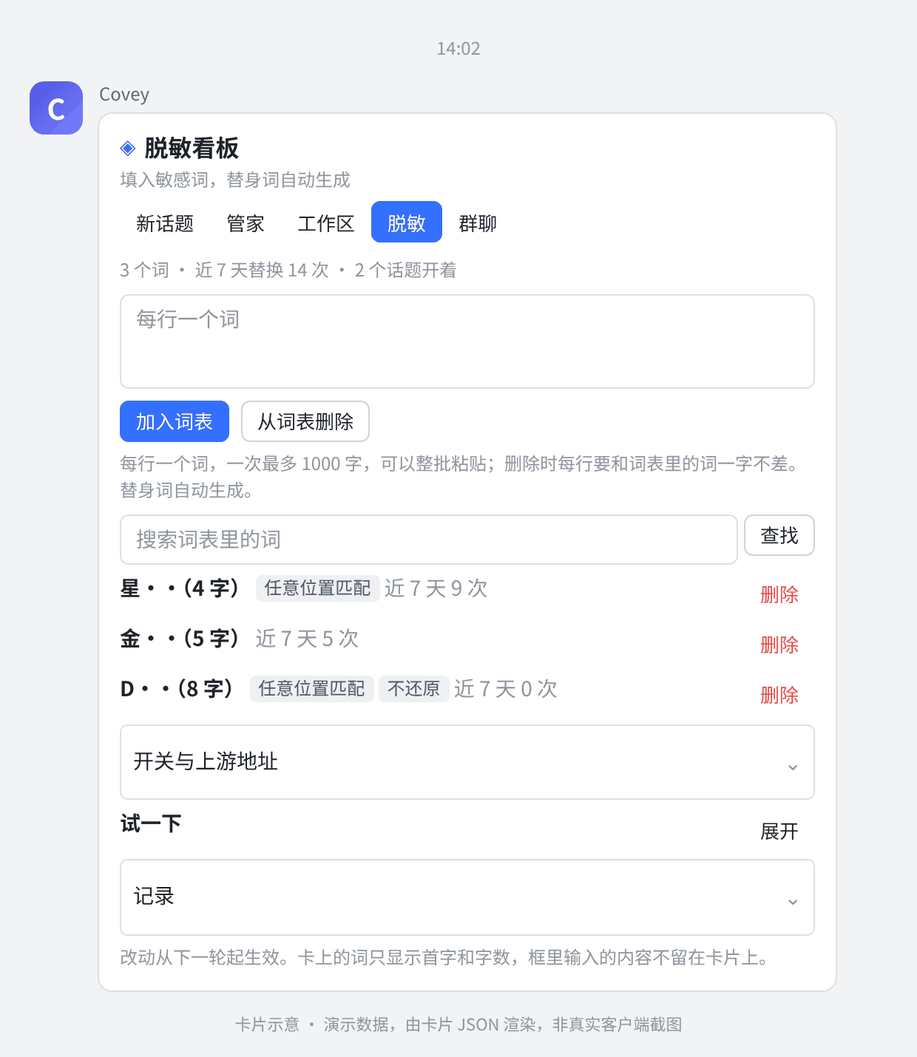
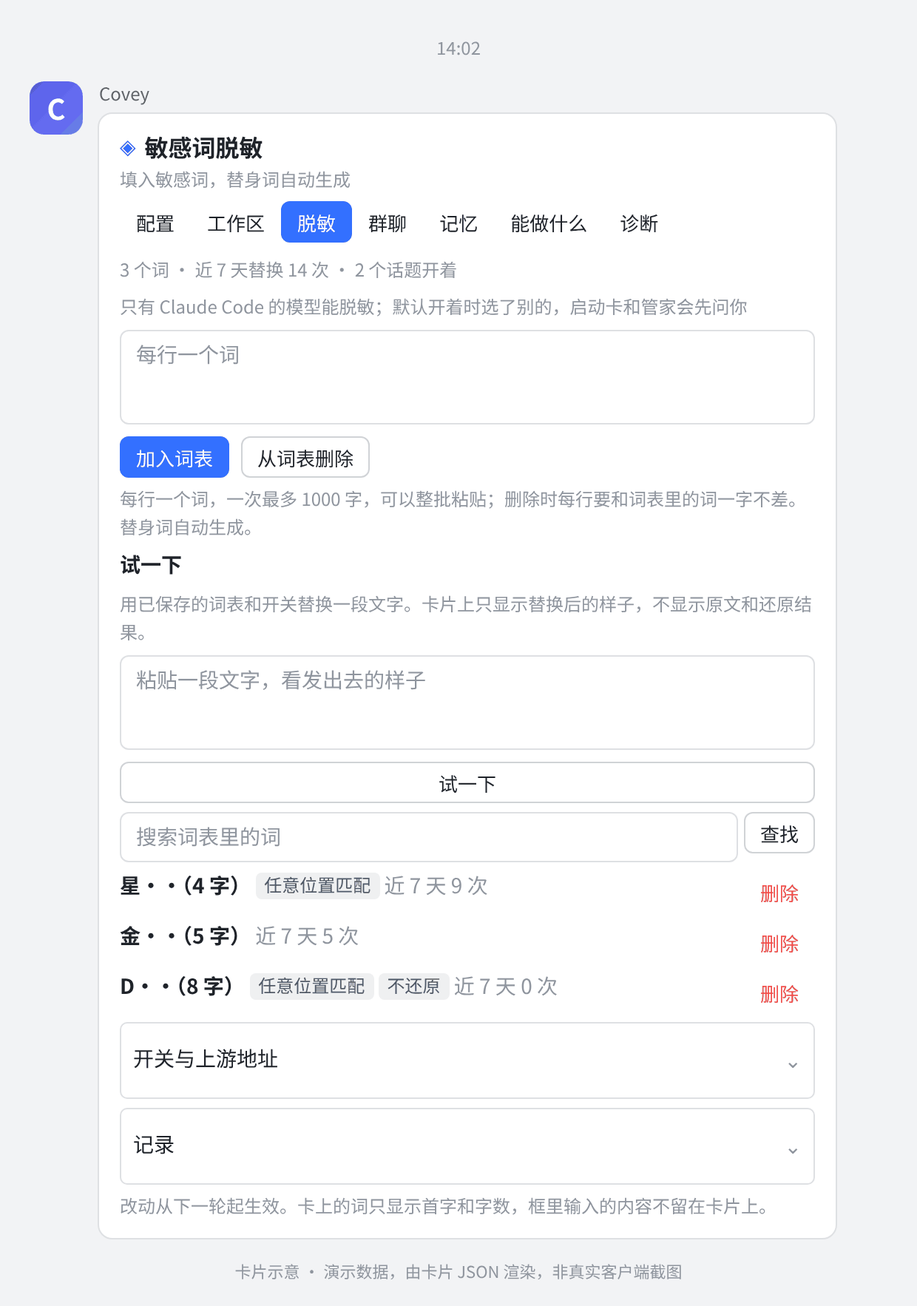
Card sketches: nine, with the question card, a stopped relay, the switch card and the board; the task card's head says 在做, the answer card shows 改动 and 独立复核, the settings card today's tabs (T646)

diff --git a/docs/demo/index.html b/docs/demo/index.html
@@ -58,7 +58,7 @@ cursor:pointer;color:#1f2329}
 .page{width:auto;max-width:620px}
 .next{margin:2px 0 0 20px;border-color:#4b52e0;color:#4b52e0}
 #ask-open .btn.pick{cursor:pointer;box-shadow:0 0 0 2px #c9cdfa}#ask-open .btn.pick:hover{filter:brightness(.95)}
-</style><div class="demo"><h1>Covey 演示</h1><div class="banner">演示数据：这一页由 Covey 的卡片 JSON 和一组演示数据画成，不连飞书、不用账号；按钮只在这一页里切换，卡片的样子以飞书里为准。</div><nav class="tabs"><button class="tab on" data-step="1">1 · 派到话题</button><button class="tab" data-step="2">2 · 回答一道题</button><button class="tab" data-step="3">3 · 看答案和产物</button></nav><section class="stage on" id="step-1"><p class="what">你在私聊里说一句话，管家给它开一个话题 T7，话题串挂在这句话下面；点进话题是这一轮的任务卡，实时写着在做什么。</p><div class="page"><div class="user">给 demo-app 加个登录页，邮箱加密码就行</div><div class="under"><span class="react"><b>Get</b> Covey</span></div><div class="under"><span class="thread">话题　T7 给 demo-app 加登录页 · 4 条回复 ›</span></div><div class="time">话题 T7 · 14:02</div><div class="msg"><div class="av">C</div><div><div class="who">Covey</div><div class="card"><div class="chead" style="padding:10px 14px 0px 14px"><div class="row" style="gap:6px;align-items:center"><i class="ic" style="color:#245bdb">◆</i><span class="t">T7 · #12 · 给 demo-app 加登录页</span></div></div><div class="cbody" style="gap:8px;padding:6px 14px 12px 14px"><div class="md" style="font-size:12px"><div class="h2"><span style="color:#245bdb">●</span> <span style="color:#245bdb"><b>在做</b></span></div></div><div class="md" style="font-size:14px"><p>阶段：写登录页<br><span style="color:#8f959e">现在：编辑 src/pages/Login.tsx</span></p></div><div class="row" style="gap:8px;align-items:flex-start;"><div class="col" style="flex:1 1 0;min-width:0;gap:2px;justify-content:flex-start;padding:6px 10px 6px 10px;background:#f5f6f7"><div class="row" style="gap:8px;align-items:flex-start;"><div class="col" style="flex:0 0 auto;min-width:0;gap:4px;justify-content:flex-start;"><div class="md" style="font-size:12px"><p><span style="color:#8f959e">输入</span></p></div></div><div class="col" style="flex:1 1 0;min-width:0;gap:4px;justify-content:flex-start;"><div class="md" style="font-size:12px"><p><span style="color:#8f959e">Claude Code <span style="color:#8f959e">｜</span> Claude 自带 <span style="color:#8f959e">｜</span> Opus 5.5 <span style="color:#8f959e">｜</span> 思考 high <span style="color:#8f959e">｜</span> 脱敏关 <span style="color:#8f959e">｜</span> demo‑app</span></p></div></div></div><div class="row" style="gap:8px;align-items:flex-start;"><div class="col" style="flex:0 0 auto;min-width:0;gap:4px;justify-content:flex-start;"><div class="md" style="font-size:12px"><p><span style="color:#8f959e">输出</span></p></div></div><div class="col" style="flex:1 1 0;min-width:0;gap:4px;justify-content:flex-start;"><div class="md" style="font-size:12px"><p><span style="color:#8f959e">开始</span> <b>14:03</b> <span style="color:#8f959e">｜</span> <span style="color:#8f959e">已运行</span> <b>2分14秒</b> <span style="color:#8f959e">｜</span> <span style="color:#8f959e">token</span> <b>24万</b> <span style="color:#8f959e">｜</span> <b>57</b> <span style="color:#8f959e">token/s</span> <span style="color:#8f959e">｜</span> <span style="color:#8f959e">上下文</span> <b>6%</b></p></div></div></div></div></div><div class="row" style="gap:8px;align-items:flex-start;"><div class="col" style="flex:1 1 0;min-width:0;gap:4px;justify-content:flex-start;"><div class="col" style="gap:0px;padding:4px 12px 6px 12px;border:1px solid #dee0e3;border-radius:8px"><div class="phead" style="padding:6px 0px 6px 0px"><div class="md" style="font-size:14px"><p><b>执行过程</b>　<span style="color:#8f959e">进行中</span></p></div><i class="chev">⌄</i></div></div></div></div><div class="col" style="gap:0px;padding:4px 12px 6px 12px;border:1px solid #dee0e3;border-radius:8px"><div class="phead" style="padding:6px 0px 6px 0px"><div class="md" style="font-size:14px"><p><span style="color:#8f959e">本轮请求</span></p></div><i class="chev">⌄</i></div></div><div class="row" style="gap:8px;align-items:flex-start;"><div class="col" style="flex:0 0 auto;min-width:0;gap:4px;justify-content:flex-start;"><span class="btn primary medium">补充</span></div><div class="col" style="flex:0 0 auto;min-width:0;gap:4px;justify-content:flex-start;"><span class="btn default medium">换配置</span></div><div class="col" style="flex:0 0 auto;min-width:0;gap:4px;justify-content:flex-start;"><span class="btn danger medium">停止</span></div></div></div></div></div></div></div><button class="next" data-step="2">下一步：回答一道题</button></section><section class="stage" id="step-2"><p class="what">模型拿不准的事写成问题卡，放进“等你”：点一个选项就提交，它接着做。在下面的卡上点一个试试。</p><div class="page"><div class="time">话题 T7 · 14:04</div><div id="ask-open"><div class="msg"><div class="av">C</div><div><div class="who">Covey</div><div class="card"><div class="cbody" style="gap:8px;padding:12px 14px 12px 14px"><div class="col" style="gap:0px;padding:0px;border:1px solid rgba(94,106,210,0.200);border-radius:10px"><div class="col" style="gap:4px;padding:10px 14px 3px 14px;background:rgba(94,106,210,0.085);border-radius:0px"><div class="md" style="font-size:12px"><p><span style="color:#4b52e0">等你 · T7 &#35;12</span></p></div></div><div class="col" style="gap:4px;padding:3px 14px 3px 14px;background:rgba(94,106,210,0.075);border-radius:0px"><div class="md" style="font-size:16px"><p>要你定：登录后</p></div></div><div class="col" style="gap:4px;padding:3px 14px 10px 14px;background:rgba(94,106,210,0.065);border-radius:0px"><div class="md" style="font-size:12px"><p><span style="color:#8f959e">等你回答后继续</span></p></div></div></div><div class="col" style="gap:8px"><div class="md" style="font-size:14px"><p>点选项就提交；都不合适时写在回答框再点“提交回答”，也可以直接在话题里回复。</p></div><div class="col" style="gap:0px;padding:8px 8px 8px 8px;border:1px solid #dee0e3;border-radius:5px"><div class="phead" style="padding:6px 0px 6px 0px"><div class="md" style="font-size:12px;color:#8f959e">怎么回答</div><i class="chev">⌄</i></div></div><div class="md" style="font-size:14px"><p><b>登录后</b><br>登录成功以后跳到哪里？</p></div><div class="md" style="font-size:14px"><ul><li><b>首页（推荐）</b>：和现在注册成功后一样；选另一个要多记一个跳转参数</li><li><b>登录前打开的页面</b>：用户少点一次，但要处理跳转参数</li></ul></div><div class="row" style="gap:8px;align-items:flex-start;"><div class="col" style="flex:0 0 auto;min-width:0;gap:4px;justify-content:flex-start;"><span class="btn default medium">首页（推荐）</span></div><div class="col" style="flex:0 0 auto;min-width:0;gap:4px;justify-content:flex-start;"><span class="btn default medium">登录前打开的页面</span></div><div class="col" style="flex:0 0 auto;min-width:0;gap:4px;justify-content:flex-start;"><span class="btn default medium">不回答此题</span></div></div><div class="inp" style="min-height:64px">选项都不合适时，在这里写你的回答</div><div class="md" style="font-size:14px"><p><b>补充说明</b>（可选）</p></div><div class="inp" style="min-height:64px">其他想说的：不答的原因、新要求，或想先问的话</div><div class="row" style="gap:8px;align-items:flex-start;"><div class="col" style="flex:1 1 0;min-width:0;gap:4px;justify-content:flex-start;"><span class="btn primary_filled medium fill">提交回答</span></div><div class="col" style="flex:1 1 0;min-width:0;gap:4px;justify-content:flex-start;"><span class="btn default medium fill">不处理</span></div></div></div></div></div></div></div></div><div class="ask-done" data-answer="首页（推荐）" hidden><div class="msg"><div class="av">C</div><div><div class="who">Covey</div><div class="card"><div class="cbody" style="gap:8px;padding:12px 14px 12px 14px"><div class="col" style="gap:8px;padding:8px 8px 8px 8px;border:1px solid #dee0e3;border-radius:5px"><div class="phead" style="padding:6px 0px 6px 0px"><div class="md" style="font-size:14px;color:#1f2329"><i class="em wait">?</i> #12 的提问 · 已回答</div><i class="chev">⌃</i></div><div class="col" style="gap:8px"><div class="md" style="font-size:14px"><p><b>登录后</b><br>登录成功以后跳到哪里？<br>答：首页（推荐）</p></div></div></div></div></div></div></div></div><div class="ask-done" data-answer="登录前打开的页面" hidden><div class="msg"><div class="av">C</div><div><div class="who">Covey</div><div class="card"><div class="cbody" style="gap:8px;padding:12px 14px 12px 14px"><div class="col" style="gap:8px;padding:8px 8px 8px 8px;border:1px solid #dee0e3;border-radius:5px"><div class="phead" style="padding:6px 0px 6px 0px"><div class="md" style="font-size:14px;color:#1f2329"><i class="em wait">?</i> #12 的提问 · 已回答</div><i class="chev">⌃</i></div><div class="col" style="gap:8px"><div class="md" style="font-size:14px"><p><b>登录后</b><br>登录成功以后跳到哪里？<br>答：登录前打开的页面</p></div></div></div></div></div></div></div></div></div><button class="next" data-step="3">下一步：看答案和产物</button></section><section class="stage" id="step-3"><p class="what">做完后答案单独发成一张答案卡：结论在最上面，登记的产物上传到云空间给链接；管家再把结论带回私聊。</p><div class="page"><div class="time">话题 T7 · 14:06</div><div class="msg"><div class="av">C</div><div><div class="who">Covey</div><div class="card"><div class="cbody" style="gap:8px;padding:12px 14px 12px 14px"><div class="col" style="gap:0px;padding:0px;border:1px solid rgba(94,106,210,0.200);border-radius:10px"><div class="col" style="gap:4px;padding:10px 14px 3px 14px;background:rgba(94,106,210,0.085);border-radius:0px"><div class="md" style="font-size:12px"><p><span style="color:#4b52e0">有结果 · T7 给 demo&#45;app 加登录页</span></p></div></div><div class="col" style="gap:4px;padding:3px 14px 10px 14px;background:rgba(94,106,210,0.075);border-radius:0px"><div class="md" style="font-size:16px"><p>结论：登录页加好了，构建和测试都通过</p></div></div></div><div class="md" style="font-size:14px"><ul><li>新增 <code>/login</code> 路由和表单，邮箱格式和密码长度（至少 8 位）会校验</li><li>登录成功跳首页，失败在表单上方给出提示</li><li>补了 3 个组件测试</li></ul></div><div class="col" style="gap:8px;padding:8px 8px 8px 8px;border:1px solid #dee0e3;border-radius:5px"><div class="phead" style="padding:6px 0px 6px 0px"><div class="md" style="font-size:12px;color:#8f959e">产物 2 个 · login-page.diff 等</div><i class="chev">⌃</i></div><div class="col" style="gap:8px"><div class="md" style="font-size:14px"><ul><li><a>login-page.diff</a> · 6 KB</li><li><a>测试结果.txt</a> · 2 KB</li></ul></div></div></div><div class="md" style="font-size:12px"><p><span style="color:#8f959e">输入</span> Claude Code <span style="color:#8f959e">｜</span> Claude 自带 <span style="color:#8f959e">｜</span> Opus 5.5 <span style="color:#8f959e">｜</span> 思考 high <span style="color:#8f959e">｜</span> 脱敏关 <span style="color:#8f959e">｜</span> demo‑app<br><span style="color:#8f959e">输出</span> <span style="color:#8f959e">用时</span> <b>4分02秒</b> <span style="color:#8f959e">｜</span> <b>57</b> <span style="color:#8f959e">token/s</span> <span style="color:#8f959e">｜</span> <span style="color:#8f959e">token</span> <b>42万</b> <span style="color:#8f959e">｜</span> <span style="color:#8f959e">缓存命中</span> <b>88%</b></p></div></div></div></div></div><div class="time">私聊 · 14:06</div><div class="msg"><div class="av">C</div><div><div class="who">Covey</div><div class="card"><div class="cbody" style="gap:6px;padding:10px 12px 10px 12px"><div class="row" style="gap:8px;align-items:flex-start;"><div class="col" style="flex:0 0 auto;min-width:0;gap:4px;justify-content:center;"><div style="display:inline-flex;align-items:center;justify-content:center;white-space:nowrap;height:28px;padding:0px 8px 0px 8px;background:rgba(71,85,105,1);border-radius:8px"><div class="md" style="font-size:12px"><p><span style="color:#ffffff"><b>T7</b></span></p></div></div></div><div class="col" style="flex:1 1 0;min-width:0;gap:4px;justify-content:center;"><div class="md" style="font-size:14px"><p><b>给 demo&#45;app 加登录页</b> <span class="tt" style="background:#d9f5d6;color:#237b19">有结果</span> <span style="color:#8f959e">做完了你 14:02 交代的事</span></p></div></div></div><div class="md" style="font-size:14px"><p><b>结论</b>：登录页加好了，构建和测试都通过。</p><ul><li>新增 <code>/login</code> 路由和表单，邮箱格式和密码长度（至少 8 位）会校验</li><li>登录成功跳首页，失败在表单上方给出提示</li><li>补了 3 个组件测试</li></ul></div><div class="col" style="gap:0px;padding:8px 8px 8px 8px;border:1px solid #dee0e3;border-radius:5px"><div class="phead" style="padding:6px 0px 6px 0px"><div class="md" style="font-size:12px;color:#8f959e">产物 2 个 · login-page.diff 等</div><i class="chev">⌄</i></div></div><div class="md" style="font-size:12px"><p><span style="color:#8f959e">输入</span> Claude Code <span style="color:#8f959e">｜</span> Claude 自带 <span style="color:#8f959e">｜</span> Opus 5.5 <span style="color:#8f959e">｜</span> 思考 high <span style="color:#8f959e">｜</span> 脱敏关 <span style="color:#8f959e">｜</span> demo‑app<br><span style="color:#8f959e">输出</span> <span style="color:#8f959e">用时</span> <b>4分02秒</b> <span style="color:#8f959e">｜</span> <b>57</b> <span style="color:#8f959e">token/s</span> <span style="color:#8f959e">｜</span> <span style="color:#8f959e">token</span> <b>42万</b> <span style="color:#8f959e">｜</span> <span style="color:#8f959e">缓存命中</span> <b>88%</b> <span style="color:#8f959e">｜</span> <a>进话题 ›</a></p></div></div></div></div></div></div></section><div class="cap">卡片示意 · 演示数据，由卡片 JSON 渲染，非真实客户端截图</div></div><script>
+</style><div class="demo"><h1>Covey 演示</h1><div class="banner">演示数据：这一页由 Covey 的卡片 JSON 和一组演示数据画成，不连飞书、不用账号；按钮只在这一页里切换，卡片的样子以飞书里为准。</div><nav class="tabs"><button class="tab on" data-step="1">1 · 派到话题</button><button class="tab" data-step="2">2 · 回答一道题</button><button class="tab" data-step="3">3 · 看答案和产物</button></nav><section class="stage on" id="step-1"><p class="what">你在私聊里说一句话，管家给它开一个话题 T7，话题串挂在这句话下面；点进话题是这一轮的任务卡，实时写着在做什么。</p><div class="page"><div class="user">给 demo-app 加个登录页，邮箱加密码就行</div><div class="under"><span class="react"><b>Get</b> Covey</span></div><div class="under"><span class="thread">话题　T7 给 demo-app 加登录页 · 4 条回复 ›</span></div><div class="time">话题 T7 · 14:02</div><div class="msg"><div class="av">C</div><div><div class="who">Covey</div><div class="card"><div class="cbody" style="gap:6px;padding:10px 12px 10px 12px"><div class="row" style="gap:8px;align-items:flex-start;"><div class="col" style="flex:0 0 auto;min-width:0;gap:4px;justify-content:center;"><div style="display:inline-flex;align-items:center;justify-content:center;white-space:nowrap;height:28px;padding:0px 8px 0px 8px;background:rgba(71,85,105,1);border-radius:8px"><div class="md" style="font-size:12px"><p><span style="color:#ffffff"><b>T7</b></span></p></div></div></div><div class="col" style="flex:1 1 0;min-width:0;gap:4px;justify-content:center;"><div class="md" style="font-size:14px"><p><b>给 demo&#45;app 加登录页</b> <span style="color:#8f959e">#12</span></p></div></div><div class="col" style="flex:0 0 auto;min-width:0;gap:4px;justify-content:center;"><div class="md" style="font-size:12px"><p><span class="tt" style="background:#e1eaff;color:#245bdb">在做</span></p></div></div></div><div class="md" style="font-size:14px"><p>阶段：写登录页<br><span style="color:#8f959e">现在：编辑 src/pages/Login.tsx</span></p></div><div class="row" style="gap:8px;align-items:flex-start;"><div class="col" style="flex:1 1 0;min-width:0;gap:2px;justify-content:flex-start;"><div class="row" style="gap:8px;align-items:flex-start;"><div class="col" style="flex:0 0 auto;min-width:0;gap:4px;justify-content:flex-start;"><div class="md" style="font-size:12px"><p><span style="color:#8f959e">输入</span></p></div></div><div class="col" style="flex:1 1 0;min-width:0;gap:4px;justify-content:flex-start;"><div class="md" style="font-size:12px"><p>Claude Code <span style="color:#8f959e">｜</span> Claude 自带 <span style="color:#8f959e">｜</span> Opus 5.5 <span style="color:#8f959e">｜</span> 思考 high <span style="color:#8f959e">｜</span> 脱敏关 <span style="color:#8f959e">｜</span> demo‑app</p></div></div></div><div class="row" style="gap:8px;align-items:flex-start;"><div class="col" style="flex:0 0 auto;min-width:0;gap:4px;justify-content:flex-start;"><div class="md" style="font-size:12px"><p><span style="color:#8f959e">输出</span></p></div></div><div class="col" style="flex:1 1 0;min-width:0;gap:4px;justify-content:flex-start;"><div class="md" style="font-size:12px"><p><span style="color:#8f959e">开始</span> <b>14:03</b> <span style="color:#8f959e">｜</span> <span style="color:#8f959e">已运行</span> <b>2分14秒</b> <span style="color:#8f959e">｜</span> <span style="color:#8f959e">token</span> <b>24万</b> <span style="color:#8f959e">｜</span> <b>57</b> <span style="color:#8f959e">token/s</span> <span style="color:#8f959e">｜</span> <span style="color:#8f959e">上下文</span> <b>6%</b></p></div></div></div></div></div><div class="row" style="gap:8px;align-items:flex-start;"><div class="col" style="flex:1 1 0;min-width:0;gap:4px;justify-content:flex-start;"><div class="col" style="gap:0px;padding:4px 12px 6px 12px;border:1px solid #dee0e3;border-radius:8px"><div class="phead" style="padding:6px 0px 6px 0px"><div class="md" style="font-size:14px"><p><b>执行过程</b>　<span style="color:#8f959e">在做</span></p></div><i class="chev">⌄</i></div></div></div></div><div class="col" style="gap:0px;padding:4px 12px 6px 12px;border:1px solid #dee0e3;border-radius:8px"><div class="phead" style="padding:6px 0px 6px 0px"><div class="md" style="font-size:14px"><p><span style="color:#8f959e">本轮请求</span></p></div><i class="chev">⌄</i></div></div><div class="row" style="gap:8px;align-items:flex-start;"><div class="col" style="flex:0 0 auto;min-width:0;gap:4px;justify-content:flex-start;"><span class="btn primary small">补充</span></div><div class="col" style="flex:0 0 auto;min-width:0;gap:4px;justify-content:flex-start;"><span class="btn default small">换配置</span></div><div class="col" style="flex:0 0 auto;min-width:0;gap:4px;justify-content:flex-start;"><span class="btn danger small">停止</span></div></div></div></div></div></div></div><button class="next" data-step="2">下一步：回答一道题</button></section><section class="stage" id="step-2"><p class="what">模型拿不准的事写成问题卡，放进“等你”：点一个选项就提交，它接着做。在下面的卡上点一个试试。</p><div class="page"><div class="time">话题 T7 · 14:04</div><div id="ask-open"><div class="msg"><div class="av">C</div><div><div class="who">Covey</div><div class="card"><div class="cbody" style="gap:6px;padding:10px 12px 10px 12px"><div class="row" style="gap:8px;align-items:flex-start;"><div class="col" style="flex:0 0 auto;min-width:0;gap:4px;justify-content:center;"><div style="display:inline-flex;align-items:center;justify-content:center;white-space:nowrap;height:28px;padding:0px 8px 0px 8px;background:rgba(71,85,105,1);border-radius:8px"><div class="md" style="font-size:12px"><p><span style="color:#ffffff"><b>T7</b></span></p></div></div></div><div class="col" style="flex:1 1 0;min-width:0;gap:4px;justify-content:center;"><div class="md" style="font-size:14px"><p><b>给 demo&#45;app 加登录页</b> <span class="tt" style="background:#feead2;color:#b25f00">等你</span></p></div></div></div><div class="col" style="gap:8px"><div class="md" style="font-size:14px"><p><b>登录后</b><br>登录成功以后跳到哪里？</p></div><div class="md" style="font-size:14px"><ul><li><b>首页（推荐）</b>：和现在注册成功后一样；选另一个要多记一个跳转参数</li><li><b>登录前打开的页面</b>：用户少点一次，但要处理跳转参数</li></ul></div><div class="row" style="gap:8px;align-items:flex-start;"><div class="col" style="flex:0 0 auto;min-width:0;gap:4px;justify-content:flex-start;"><span class="btn default small">首页（推荐）</span></div><div class="col" style="flex:0 0 auto;min-width:0;gap:4px;justify-content:flex-start;"><span class="btn default small">登录前打开的页面</span></div><div class="col" style="flex:0 0 auto;min-width:0;gap:4px;justify-content:flex-start;"><span class="btn default small">不回答此题</span></div></div><div class="inp" style="min-height:64px">选项都不合适时，在这里写你的回答</div><div class="md" style="font-size:14px"><p><b>补充说明</b>（可选）</p></div><div class="inp" style="min-height:64px">其他想说的：不答的原因、新要求，或想先问的话</div><div class="row" style="gap:8px;align-items:flex-start;"><div class="col" style="flex:1 1 0;min-width:0;gap:4px;justify-content:flex-start;"><span class="btn primary_filled medium fill">提交回答</span></div><div class="col" style="flex:1 1 0;min-width:0;gap:4px;justify-content:flex-start;"><span class="btn default medium fill">不处理</span></div></div><div class="col" style="gap:0px;padding:0px 0px 0px 0px"><div class="phead follow" style="padding:0px 0px 0px 0px"><div class="md" style="font-size:12px"><p><span style="color:#8f959e">怎么回答：点选项就提交，也可以直接在话题里回复</span></p></div><i class="chev">⌄</i></div></div></div></div></div></div></div></div><div class="ask-done" data-answer="首页（推荐）" hidden><div class="msg"><div class="av">C</div><div><div class="who">Covey</div><div class="card"><div class="cbody" style="gap:6px;padding:10px 12px 10px 12px"><div class="row" style="gap:8px;align-items:flex-start;"><div class="col" style="flex:0 0 auto;min-width:0;gap:4px;justify-content:center;"><div style="display:inline-flex;align-items:center;justify-content:center;white-space:nowrap;height:28px;padding:0px 8px 0px 8px;background:rgba(71,85,105,1);border-radius:8px"><div class="md" style="font-size:12px"><p><span style="color:#ffffff"><b>T7</b></span></p></div></div></div><div class="col" style="flex:1 1 0;min-width:0;gap:4px;justify-content:center;"><div class="md" style="font-size:14px"><p><b>给 demo&#45;app 加登录页</b> <span class="tt" style="background:#eff0f1;color:#4e5969">已回答</span></p></div></div></div><div class="row" style="gap:8px;align-items:flex-start;"><div class="col" style="flex:1 1 0;min-width:0;gap:4px;justify-content:flex-start;"><div class="col" style="gap:4px;padding:0px 0px 0px 0px"><div class="phead" style="padding:6px 0px 6px 0px"><div class="md" style="font-size:14px"><p><b>登录后</b> 登录成功以后跳到哪里？</p></div><i class="chev">⌃</i></div><div class="col" style="gap:4px"><div class="md" style="font-size:14px"><p>答：首页（推荐）</p></div><div class="md" style="font-size:12px"><p><span style="color:#8f959e">&#35;12 的提问 · 已回答</span></p></div></div></div><div class="md" style="font-size:12px"><p><span style="color:#8f959e">→ 你选了「首页（推荐）」</span></p></div></div></div></div></div></div></div></div><div class="ask-done" data-answer="登录前打开的页面" hidden><div class="msg"><div class="av">C</div><div><div class="who">Covey</div><div class="card"><div class="cbody" style="gap:6px;padding:10px 12px 10px 12px"><div class="row" style="gap:8px;align-items:flex-start;"><div class="col" style="flex:0 0 auto;min-width:0;gap:4px;justify-content:center;"><div style="display:inline-flex;align-items:center;justify-content:center;white-space:nowrap;height:28px;padding:0px 8px 0px 8px;background:rgba(71,85,105,1);border-radius:8px"><div class="md" style="font-size:12px"><p><span style="color:#ffffff"><b>T7</b></span></p></div></div></div><div class="col" style="flex:1 1 0;min-width:0;gap:4px;justify-content:center;"><div class="md" style="font-size:14px"><p><b>给 demo&#45;app 加登录页</b> <span class="tt" style="background:#eff0f1;color:#4e5969">已回答</span></p></div></div></div><div class="row" style="gap:8px;align-items:flex-start;"><div class="col" style="flex:1 1 0;min-width:0;gap:4px;justify-content:flex-start;"><div class="col" style="gap:4px;padding:0px 0px 0px 0px"><div class="phead" style="padding:6px 0px 6px 0px"><div class="md" style="font-size:14px"><p><b>登录后</b> 登录成功以后跳到哪里？</p></div><i class="chev">⌃</i></div><div class="col" style="gap:4px"><div class="md" style="font-size:14px"><p>答：登录前打开的页面</p></div><div class="md" style="font-size:12px"><p><span style="color:#8f959e">&#35;12 的提问 · 已回答</span></p></div></div></div><div class="md" style="font-size:12px"><p><span style="color:#8f959e">→ 你选了「登录前打开的页面」</span></p></div></div></div></div></div></div></div></div></div><button class="next" data-step="3">下一步：看答案和产物</button></section><section class="stage" id="step-3"><p class="what">做完后答案单独发成一张答案卡：结论在最上面，登记的产物上传到云空间给链接；管家再把结论带回私聊。</p><div class="page"><div class="time">话题 T7 · 14:06</div><div class="msg"><div class="av">C</div><div><div class="who">Covey</div><div class="card"><div class="cbody" style="gap:6px;padding:10px 12px 10px 12px"><div class="row" style="gap:8px;align-items:flex-start;"><div class="col" style="flex:0 0 auto;min-width:0;gap:4px;justify-content:center;"><div style="display:inline-flex;align-items:center;justify-content:center;white-space:nowrap;height:28px;padding:0px 8px 0px 8px;background:rgba(71,85,105,1);border-radius:8px"><div class="md" style="font-size:12px"><p><span style="color:#ffffff"><b>T7</b></span></p></div></div></div><div class="col" style="flex:1 1 0;min-width:0;gap:4px;justify-content:center;"><div class="md" style="font-size:14px"><p><b>给 demo&#45;app 加登录页</b> <span class="tt" style="background:#d9f5d6;color:#237b19">有结果</span></p></div></div></div><div class="md" style="font-size:14px"><p><b>结论</b>：登录页加好了，构建和测试都通过。</p><ul><li>新增 <code>/login</code> 路由和表单，邮箱格式和密码长度（至少 8 位）会校验</li><li>登录成功跳首页，失败在表单上方给出提示</li><li>补了 3 个组件测试</li></ul></div><div class="col" style="gap:0px;padding:8px 8px 8px 8px;border:1px solid #dee0e3;border-radius:5px"><div class="phead" style="padding:6px 0px 6px 0px"><div class="md" style="font-size:12px;color:#8f959e">产物 2 个 · login-page.diff 等 · 改动（点开看）</div><i class="chev">⌄</i></div></div><div class="md" style="font-size:12px"><p><span style="color:#8f959e">输入</span> Claude Code <span style="color:#8f959e">｜</span> Claude 自带 <span style="color:#8f959e">｜</span> Opus 5.5 <span style="color:#8f959e">｜</span> 思考 high <span style="color:#8f959e">｜</span> 脱敏关 <span style="color:#8f959e">｜</span> demo‑app<br><span style="color:#8f959e">输出</span> <span style="color:#8f959e">用时</span> <b>4分02秒</b> <span style="color:#8f959e">｜</span> <b>57</b> <span style="color:#8f959e">token/s</span> <span style="color:#8f959e">｜</span> <span style="color:#8f959e">token</span> <b>42万</b> <span style="color:#8f959e">｜</span> <span style="color:#8f959e">缓存命中</span> <b>88%</b></p></div><div class="row" style="gap:8px;align-items:flex-start;"><div class="col" style="flex:0 0 auto;min-width:0;gap:4px;justify-content:flex-start;"><span class="btn default small">独立复核</span></div></div></div></div></div></div><div class="time">私聊 · 14:06</div><div class="msg"><div class="av">C</div><div><div class="who">Covey</div><div class="card"><div class="cbody" style="gap:6px;padding:10px 12px 10px 12px"><div class="col" style="gap:8px;padding:0px;border-radius:6px"><div class="row" style="gap:8px;align-items:flex-start;"><div class="col" style="flex:0 0 auto;min-width:0;gap:4px;justify-content:center;"><div style="display:inline-flex;align-items:center;justify-content:center;white-space:nowrap;height:28px;padding:0px 8px 0px 8px;background:rgba(71,85,105,1);border-radius:8px"><div class="md" style="font-size:12px"><p><span style="color:#ffffff"><b>T7</b></span></p></div></div></div><div class="col" style="flex:1 1 0;min-width:0;gap:4px;justify-content:center;"><div class="md" style="font-size:14px"><p><b>给 demo&#45;app 加登录页</b> <span class="tt" style="background:#d9f5d6;color:#237b19">有结果</span> <span style="color:#8f959e">做完了你 14:02 交代的事</span> <span style="color:#8f959e">›</span></p></div></div></div></div><div class="col" style="gap:0px;padding:0px 0px 0px 0px"><div class="phead follow" style="padding:0px 0px 0px 0px"><div class="md" style="font-size:12px"><p><span style="color:#8f959e">你问 14:02 · 给 demo&#45;app 加个登录页，邮箱加密码就行</span></p></div><i class="chev">⌄</i></div></div><div class="md" style="font-size:14px"><p><b>结论</b>：登录页加好了，构建和测试都通过。</p><ul><li>新增 <code>/login</code> 路由和表单，邮箱格式和密码长度（至少 8 位）会校验</li><li>登录成功跳首页，失败在表单上方给出提示</li><li>补了 3 个组件测试</li></ul></div><div class="col" style="gap:0px;padding:8px 8px 8px 8px;border:1px solid #dee0e3;border-radius:5px"><div class="phead" style="padding:6px 0px 6px 0px"><div class="md" style="font-size:12px;color:#8f959e">产物 2 个 · login-page.diff 等</div><i class="chev">⌄</i></div></div><div class="md" style="font-size:12px"><p><span style="color:#8f959e">输入</span> Claude Code <span style="color:#8f959e">｜</span> Claude 自带 <span style="color:#8f959e">｜</span> Opus 5.5 <span style="color:#8f959e">｜</span> 思考 high <span style="color:#8f959e">｜</span> 脱敏关 <span style="color:#8f959e">｜</span> demo‑app<br><span style="color:#8f959e">输出</span> <span style="color:#8f959e">用时</span> <b>4分02秒</b> <span style="color:#8f959e">｜</span> <b>57</b> <span style="color:#8f959e">token/s</span> <span style="color:#8f959e">｜</span> <span style="color:#8f959e">token</span> <b>42万</b> <span style="color:#8f959e">｜</span> <span style="color:#8f959e">缓存命中</span> <b>88%</b></p></div><div class="md" style="font-size:12px"><p><span style="color:#8f959e">回复这张卡，就是接着跟 T7 说</span></p></div></div></div></div></div></div></section><div class="cap">卡片示意 · 演示数据，由卡片 JSON 渲染，非真实客户端截图</div></div><script>
 function show(n){document.querySelectorAll('.stage').forEach(function(s){s.classList.toggle('on',s.id==='step-'+n)});
 document.querySelectorAll('.tab').forEach(function(t){t.classList.toggle('on',t.dataset.step===String(n))});
 window.scrollTo(0,0)}

diff --git a/scripts/card_sketches.py b/scripts/card_sketches.py
@@ -147,19 +147,34 @@ def task_sketch():
                 IO_BOX_ID: io_box(job, io_lines(running_figures(snapshot, began), "2分14秒"))}
     elements = []
     for element in card["body"]["elements"]:
-        elements.append(replaced.get(element.get("element_id"), element))
+        elements.append(by_id(replaced.get(element.get("element_id"), element), replaced))
         if element.get("element_id") == "answer":
             elements.append(panel_json(TraceView(snapshot).panel_model(True)))
     card["body"]["elements"] = [e for e in elements if not (e.get("element_id") == "answer" and not e.get("content"))]
     return [("user", ASK), ("card", card)]
 
 
+def by_id(node, replaced):
+    """``node`` with every element inside it whose element_id ``replaced`` names swapped for that one, as a CardKit write
+    by element ID finds it wherever it is (the status line sits in the task card's head row)."""
+    if isinstance(node, dict):
+        if node.get("element_id") in replaced:
+            return replaced[node["element_id"]]
+        return {key: by_id(value, replaced) for key, value in node.items()}
+    if isinstance(node, list):
+        return [by_id(item, replaced) for item in node]
+    return node
+
+
 def answer_sketch():
     """The answer card in the topic as app/answer_delivery.py makes it: the topic's row (app/saved_send.py status_head),
-    the answer whole, 产物 and 输入/输出."""
-    from covey.cards.answer_card import input_parts, tail, topic_head
+    the answer whole, 产物, the 改动 of a turn that changed code, 输入/输出 and 独立复核 (app/review.py)."""
+    from covey.cards.answer_card import input_parts, review_element, tail, topic_head
     from covey.cards.review import answer_card
-    card = answer_card(answer_text(), f"{LABEL} 有结果 · 结论", tail(artifacts(), input_parts(*INPUTS), outputs(242)),
+    change = {"commit": "3f9c2a7e41d08b6c5a12", "deployed": "", "verified": "npm test 全过（新增 3 个组件测试）；本地起页面点过登录"}
+    card = answer_card(answer_text(), f"{LABEL} 有结果 · 结论",
+                       tail(artifacts(), input_parts(*INPUTS), outputs(242), change=change,
+                            buttons=[review_element("t" * 64, 12)]),
                        [topic_head(LABEL, TITLE, "done")])
     return [("card", card)]
 
@@ -187,7 +202,8 @@ def redaction_sketch():
              "turns": [{"time": "11-20 14:05", "number": 7, "model": "opus", "requests": 6, "replaced": 4},
                        {"time": "11-20 14:02", "number": 7, "model": "opus", "requests": 3, "replaced": 5}]}
     card = redaction_card(token, {"revision": 1, "hub": True}, facts,
-                          top=[tab_row("redaction", token, ["topic", "main", "workspace", "redaction", "groups"])])
+                          top=[tab_row("redaction", token, ["config", "workspace", "redaction", "groups", "memory", "about",
+                                                            "doctor"])])
     return [("card", card)]
 
 
@@ -240,8 +256,65 @@ def demo_steps():
     ]
 
 
+def question_sketch():
+    """The demo topic's question card in its thread: the question under the topic's row, the options as buttons."""
+    return [("time", "话题 T7 · 14:04"), ("card", question())]
+
+
+def stopped_sketch():
+    """A 停住了 relay at the top level (app/relay_stops.py): the reason in plain words from core/failure.py and the
+    buttons it allows, here 换个模型 for a quota that ran out."""
+    from covey.app import relay_stops
+    from covey.cards.answer_card import ask_block
+    from covey.cards.relay_card import STOPPED, relay_card
+    from covey.core.failure import failure_view
+    record = {"job_id": 12, "topic_id": "t" * 64, "chat_id": "oc_demo", "status": "failed", "execution_status": "failed",
+              "failure_code": "quota_exhausted", "harness_id": "claude", "binding_revision": 1}
+    view = failure_view(record)
+    area = relay_stops.buttons(record, view)
+    card = relay_card(LABEL, STOPPED, reason=view["title"], buttons=[area] if area else [],
+                      ask=ask_block(ASK, at="14:02", url="https://example.invalid/t7", who=f"{LABEL} {TITLE}",
+                                    doing="stopped"))[0]
+    return [("user", ASK), ("reaction", "Get"), ("thread", f"{LABEL} {TITLE} · 3 条回复"), ("time", "14:20"),
+            ("card", card)]
+
+
+def switch_sketch():
+    """The 🔁 换配置 card of the demo topic: from Claude Code to Codex mid-conversation, the changed row in blue."""
+    from covey.cards.switch_form import build_switch_card
+    form = {"token": "s" * 24, "topic": LABEL, "workspace": "demo-app", "config_revision": 1,
+            "current": {"label": CHOICES["claude:opus"]["label"], "effort": "high", "key": "claude:opus",
+                        "budget": "high", "workspace": "demo-app", "run_mode": "worktree", "redaction": False},
+            "models": dict(CHOICES), "selected_model": "codex:gpt", "selected_effort": "high",
+            "workspaces": ["demo-app", "docs-site"], "selected_workspace": "demo-app", "selected_run_mode": "worktree",
+            "selected_redaction": "off"}
+    return [("card", build_switch_card(form))]
+
+
+def board_sketch():
+    """The bot menu's 看板 (cards/board.py): what waits for the owner first, then what stopped, what runs, what ended,
+    and the projects, one coloured block a topic."""
+    from covey.cards.board import board_card
+    view = {
+        "waiting": [{"topic": "a", "label": LABEL, "title": TITLE, "url": "https://example.invalid/t7",
+                     "line": "要你定：登录成功以后跳到哪里？", "meta": ["等了 3 分钟"]}],
+        "stale": [], "dismissable": True, "can_dismiss": True,
+        "running": [{"topic": "b", "label": "T8", "title": "给订单接口补集成测试", "url": "https://example.invalid/t8",
+                     "line": "现在：跑全量测试", "meta": ["2/3 步", "预计还要约 10 分钟", "1 分钟前有动静"]}],
+        "done": [{"topic": "d", "label": "T5", "title": "修登录接口的报错", "url": "https://example.invalid/t5",
+                  "card": "om_demo_t5", "status": "failed", "line": "模型服务的额度用完了；可以换个模型接着做",
+                  "meta": ["13:40 停", "下一步：在卡上点「换个模型」"], "seen": False},
+                 {"topic": "e", "label": "T6", "title": "升级依赖并跑回归", "status": "done", "line": "依赖升级好了，回归全过",
+                  "url": "https://example.invalid/t6", "meta": [], "seen": False, "state": "做完", "took": "用时 18分06秒"}],
+        "projects": [{"name": "demo-app 账号体系", "goal": "注册、登录、找回密码都上线并有测试", "topics": ["a", "b"],
+                      "waiting": 1, "running": 1, "stopped": 0, "url": "https://example.invalid/p1"}],
+        "proposals": 0, "tidy": {}, "stamp": "14:06", "done_since": "09:30", "pending": []}
+    return [("card", board_card(view))]
+
+
 SKETCHES = {"01-butler": butler_sketch, "02-task-card": task_sketch, "03-answer-card": answer_sketch,
-            "04-launch-card": launch_sketch, "05-settings-redaction": redaction_sketch}
+            "04-launch-card": launch_sketch, "05-settings-redaction": redaction_sketch, "06-question-card": question_sketch,
+            "07-stopped-card": stopped_sketch, "08-switch-card": switch_sketch, "09-board": board_sketch}
 
 
 def build():
